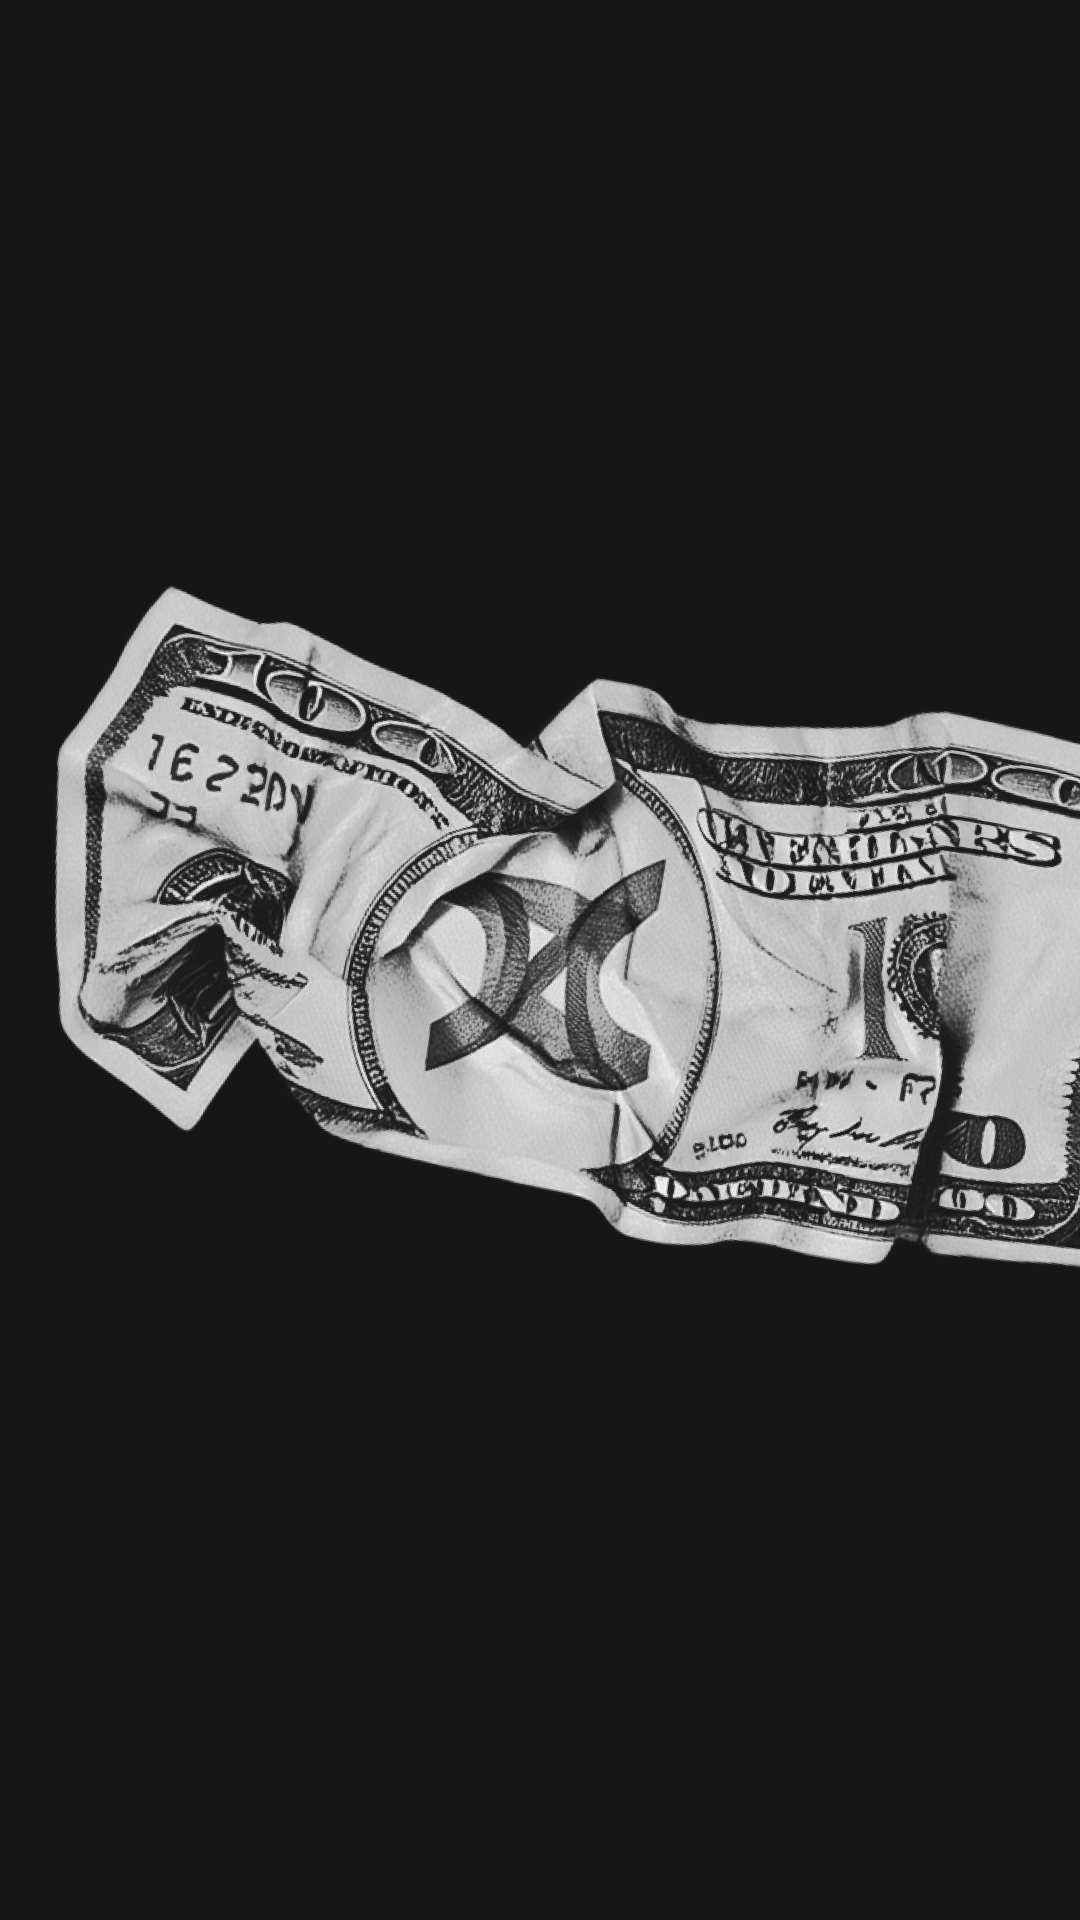
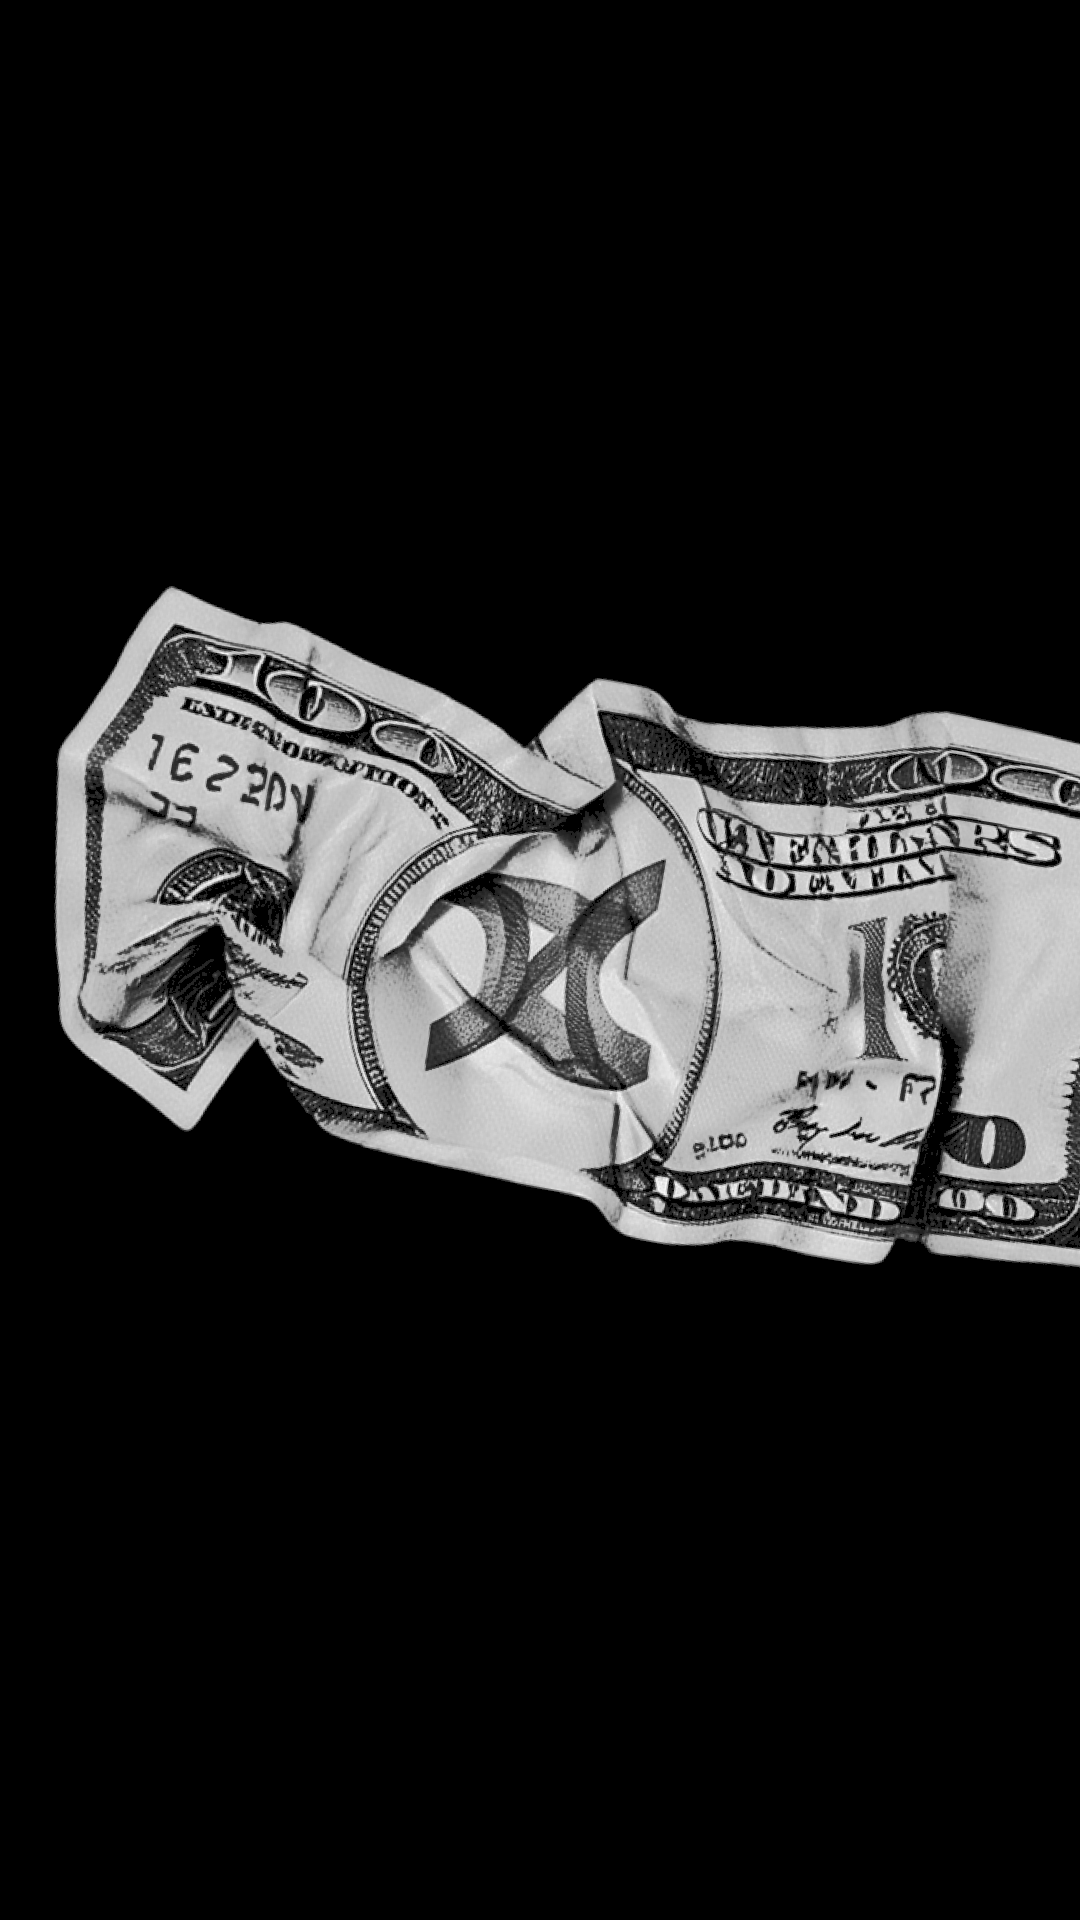
perf(pitch): the deck was painting seventeen slides at once
It scrolls badly, and three things were doing it.

Every slide renders whether or not anyone is looking at it: seventeen
full-screen sections, twenty-one images, all eager. `content-visibility: auto`
lets the browser skip layout and paint for the ones off screen, with an
intrinsic size so the scrollbar stays honest. Print turns it off, or slides
would come out blank.

Screen blending was doing at composite time — every frame, on the GPU — what the
files can carry themselves. The three pieces of art that ship on black now have
a true #000 background baked in, so the blend mode is gone. That removes the
per-frame cost AND fixes the seam in the PDF, where Chrome ignores blend modes
and the near-black rectangle showed through. Two bugs, one cause.

Three sources were absurdly oversized for a 1600px page — the mark at 4096²,
the sketch at 4320×5400, the dollars at 2078×3679, together 23 megapixels of
decode work for pictures never shown above 2000px. Downscaled; the folder drops
from 34.2MB to 28.7MB and the heavy decodes go with it.

Also marks the team slide's logo for the print sheet. It is hand-built rather
than going through the shared component, so the fix in #486 never reached it and
it printed blank.

diff --git a/web/src/components/pitch/slide-data.tsx b/web/src/components/pitch/slide-data.tsx
@@ -34,11 +34,6 @@ interface ShellProps {
   imageBox?: "right";
   /** Width the slide body is held to, so it never runs under `imageBox`. */
   bodyMax?: string;
-  /** For art that ships on its own black background. The file's black is never quite
-   *  the slide's #000, so the picture's rectangle shows as a seam. Screen blending
-   *  makes true black contribute nothing, and the edge disappears instead of being
-   *  hidden under a gradient. */
-  blend?: "screen";
   light?: boolean;
   /** Slide body — supplied by the four wrappers below, not by the deck. */
   children: ReactNode;
@@ -65,7 +60,7 @@ function scrimBg(strength: number, from: ShellProps["scrimFrom"], light?: boolea
   return `rgba(${rgb},${near})`;
 }
 
-function Shell({ kicker, title, sub, footer, image, imageAlt = "", cover, scrim = 85, scrimFrom, imagePos, imageBox, bodyMax, blend, light, children }: ShellProps) {
+function Shell({ kicker, title, sub, footer, image, imageAlt = "", cover, scrim = 85, scrimFrom, imagePos, imageBox, bodyMax, light, children }: ShellProps) {
   return (
     <section
       className={`relative flex min-h-screen w-full flex-col justify-center overflow-hidden px-6 py-16 md:px-16 ${light ? "bg-white" : "bg-black"}`}
@@ -77,21 +72,20 @@ function Shell({ kicker, title, sub, footer, image, imageAlt = "", cover, scrim 
           <Image
             src={image} alt={imageAlt} fill loading="eager" sizes="44vw"
             className="object-cover"
-            style={{ ...(imagePos ? { objectPosition: imagePos } : {}), ...(blend ? { mixBlendMode: blend } : {}) }}
+            style={imagePos ? { objectPosition: imagePos } : undefined}
           />
-          {/* Art that blends has no edge to hide; a photograph does. */}
-          {!blend && (
-            <div
-              className="absolute inset-y-0 left-0 w-[22%]"
-              style={{ background: `linear-gradient(to right, ${light ? "#fff" : "#000"}, transparent)` }}
-            />
-          )}
+          {/* Softens where a photograph starts. Art on true black has no edge to hide,
+              but the gradient costs nothing there either. */}
+          <div
+            className="absolute inset-y-0 left-0 w-[22%]"
+            style={{ background: `linear-gradient(to right, ${light ? "#fff" : "#000"}, transparent)` }}
+          />
         </div>
       ) : image ? (
         <Image
           src={image} alt={imageAlt} fill loading="eager" sizes="100vw"
           className={cover ? "object-cover" : `object-contain ${light ? "opacity-[0.16]" : "opacity-45"}`}
-          style={{ ...(imagePos ? { objectPosition: imagePos } : {}), ...(blend ? { mixBlendMode: blend } : {}) }}
+          style={imagePos ? { objectPosition: imagePos } : undefined}
         />
       ) : null}
       {/* Deep enough that the 13px labels survive the pale patches of the photograph.

diff --git a/web/src/components/pitch/deck-shell.tsx b/web/src/components/pitch/deck-shell.tsx
@@ -10,7 +10,11 @@ const printCss = `
   @page { size: 1600px 900px; margin: 0; }
   * { -webkit-print-color-adjust: exact !important; print-color-adjust: exact !important; }
   main { height: auto !important; overflow: visible !important; }
-  main > section { height: 900px !important; min-height: 900px !important; overflow: hidden !important; break-after: page; }
+  main > section {
+    height: 900px !important; min-height: 900px !important;
+    overflow: hidden !important; break-after: page;
+    content-visibility: visible !important;
+  }
   main > section:last-child { break-after: auto; }
 
   /* Chrome does not honour Tailwind's \`md:\` breakpoints when printing, so every
@@ -36,7 +40,9 @@ const printCss = `
  *  at /pitch/short. */
 export function DeckShell({ children }: { children: ReactNode }) {
   return (
-    <main className={`${dmSans.variable} ${dmSans.className} h-screen overflow-y-auto overflow-x-hidden snap-y snap-mandatory bg-black text-white scroll-smooth [&>section]:snap-start [&>section]:snap-always`}>
+    <main
+      className={`${dmSans.variable} ${dmSans.className} h-screen overflow-y-auto overflow-x-hidden snap-y snap-mandatory bg-black text-white scroll-smooth [&>section]:snap-start [&>section]:snap-always [&>section]:[content-visibility:auto] [&>section]:[contain-intrinsic-size:100vw_100vh]`}
+    >
       <style>{printCss}</style>
       {children}
     </main>

diff --git a/web/src/components/pitch/deck.tsx b/web/src/components/pitch/deck.tsx
@@ -150,7 +150,7 @@ export function Deck() {
         kicker="competition"
         title={<>nobody covers <span className={ACCENT}>both halves.</span></>}
         image={`${C}/note-mark.png`} imageAlt="A crumpled hundred-dollar note with the OXAR mark pressed into it"
-        imageBox="right" bodyMax="min(1060px, 64%)" blend="screen"
+        imageBox="right" bodyMax="min(1060px, 64%)"
         rows={COMPETITION}
         footer="the defensible part is not the yield — anyone can route to a protocol. it is who we serve, and that they trust us with the first dollar."
       />
@@ -173,10 +173,10 @@ export function Deck() {
 
       {/* 16 — Team — light (type only: handshake.png ships with a baked-in checkerboard) */}
       <section className="relative flex min-h-screen w-full flex-col justify-center overflow-hidden bg-black px-6 py-16 md:px-16">
-        <div className="pointer-events-none absolute inset-y-0 right-0 hidden w-[46%] md:block">
+        <div data-band className="pointer-events-none absolute inset-y-0 right-0 hidden w-[46%] md:block">
           <Image
             src={`${C}/logo-chrome.png`} alt="The OXAR mark in chrome" fill sizes="46vw"
-            className="object-contain" style={{ mixBlendMode: "screen" }}
+            className="object-contain"
           />
         </div>
         <div className="relative z-10 max-w-[min(1000px,58%)]">
